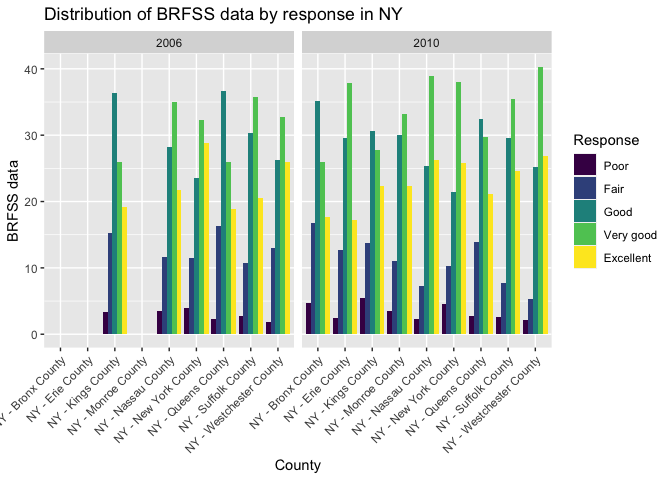
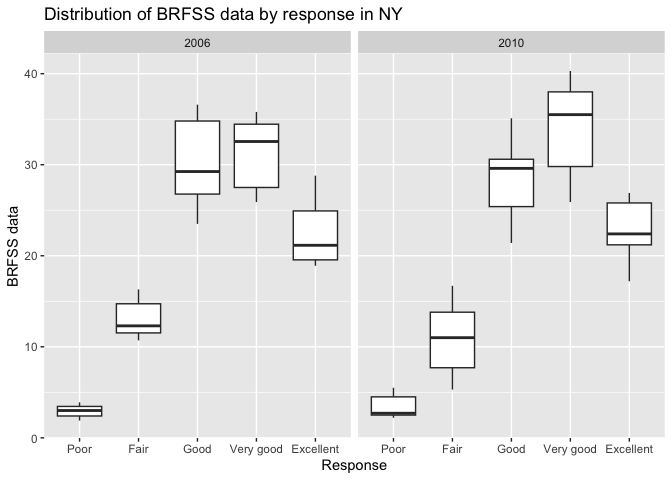
correct a plot for Q2

diff --git a/p8105_hw3_sw3879.md b/p8105_hw3_sw3879.md
@@ -75,6 +75,10 @@ instacart |> count(aisle) |> filter(n > 10000) |>
 
 ![](p8105_hw3_sw3879_files/figure-gfm/unnamed-chunk-3-1.png)<!-- -->
 
+From this plot, we can see that the 2 most populat aisles are fresh
+vetetables and fresh fruits, and these two have significantly more items
+ordered than the rest of the aisles.
+
 Making a table of top 3 ordered items from “baking ingredients”, “dog
 food care”, “packaged vegetables fruits”:
 
@@ -98,6 +102,10 @@ instacart |> filter(aisle %in% c("baking ingredients", "dog food care", "package
 | dog food care              | Organix Chicken & Brown Rice Recipe           |            28 |
 | dog food care              | Small Dog Biscuits                            |            26 |
 
+From the table, we can see that among the three aisles, a lot more items
+ordered are from the packaged vegetable and fruit aisle, and the least
+items ordered are from the dog food care aisle.
+
 Make a table showing the mean hour of the day at which Pink Lady Apples
 and Coffee Ice Cream are ordered on each day of the week:
 
@@ -119,6 +127,10 @@ instacart |>
 |:-----------------|------:|------:|------:|------:|------:|------:|------:|
 | Coffee Ice Cream | 13.77 | 14.32 | 15.38 | 15.32 | 15.22 | 12.26 | 13.83 |
 | Pink Lady Apples | 13.44 | 11.36 | 11.70 | 14.25 | 11.55 | 12.78 | 11.94 |
+
+From the table we can see that on most days, coffee ice cream and pink
+lady apples have relative similar sales, but on some days there are more
+sales on coffee ice cream than on pink lady apples.
 
 ## Problem 2
 
@@ -143,6 +155,8 @@ brfss_clean = brfss_smart2010 |> as.tibble() |>
                            ordered = TRUE)) |> 
   arrange(response)
 ```
+
+The resulted clean `brfss` dataset has 10625 rows and 23 columns.
 
 In 2002, which states were observed at 7 or more locations? What about
 in 2010?
@@ -216,22 +230,23 @@ brfss_ny = brfss_clean |>
   select(c("year", "location_abbr", "location_desc","response", "data_value"))
 ```
 
+Making a boxplot to show distribution of response in NY in 2006 and
+2010:
+
 ``` r
-brfss_ny |> ggplot(aes(x = location_desc, y = data_value, fill = response)) +
-  geom_bar(stat = "identity", position = "dodge") +
-  theme(axis.text.x = element_text(angle = 45, hjust = 1)) +
+brfss_ny |> ggplot(aes(x = response, y = data_value)) +
+  geom_boxplot() +
   labs(title = "Distribution of BRFSS data by response in NY",
-       x = "County", y = "BRFSS data", fill = "Response") +
+       x = "Response", y = "BRFSS data") +
   facet_grid(. ~ year)
 ```
 
-![](p8105_hw3_sw3879_files/figure-gfm/unnamed-chunk-13-1.png)<!-- -->
-
-From the clustered bar plot, we can see that there are missing data in
-2006 for a few counties but data is complete for 2010. In most states,
-the majority of the response is “very good”, with Bronx, Kings, and
-Queens county as exceptions. Comparing between 2006 and 2010, there is
-generally an increase in data value in the “very good” response.
+![](p8105_hw3_sw3879_files/figure-gfm/unnamed-chunk-13-1.png)<!-- --> In
+both 2006 and 2010, we can see that the median data for the `very good`
+response is the highest, which is 32.55 in 2006 and 35.5 in 2010. We can
+also see an increase in the median data value for the `very good`
+response from 2006 to 2010, while the median data for other responses
+stayed similar from 2006 to 2010.
 
 ## Problem 3
 
